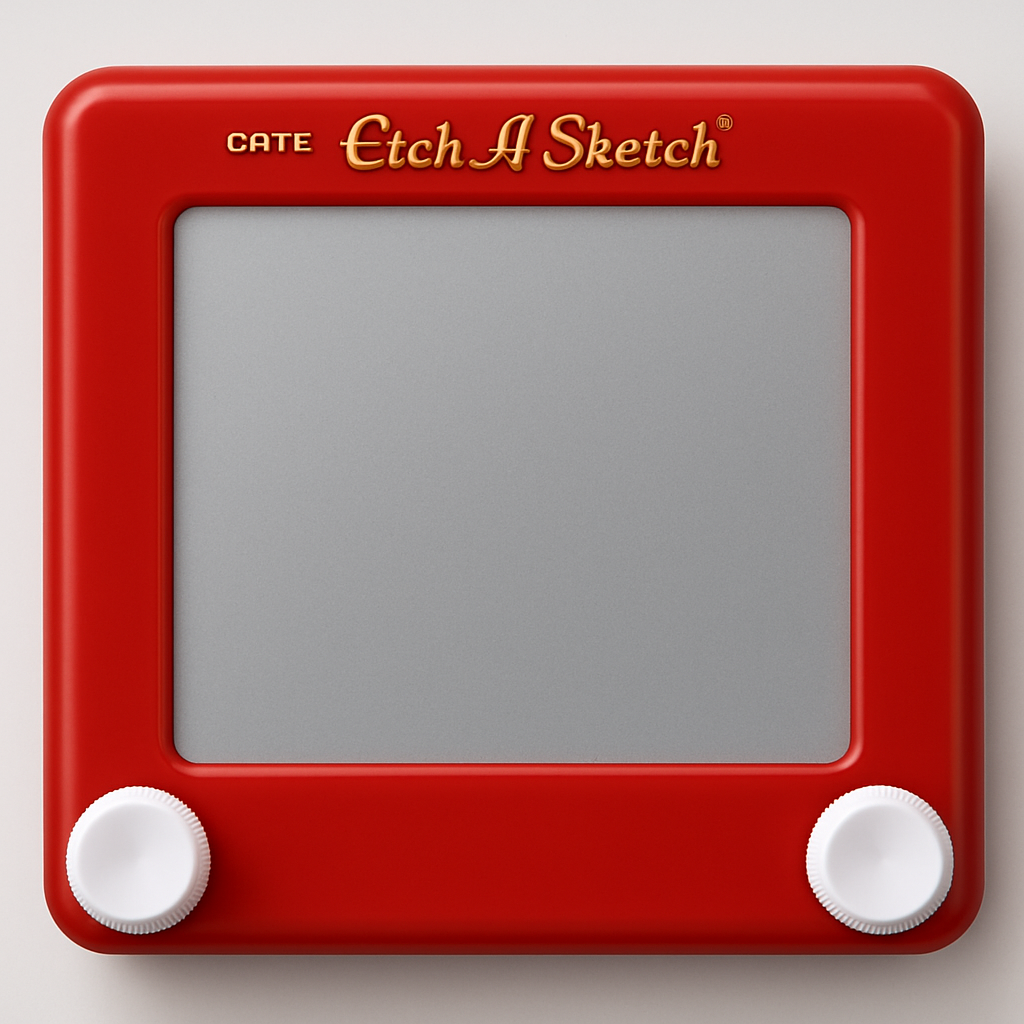
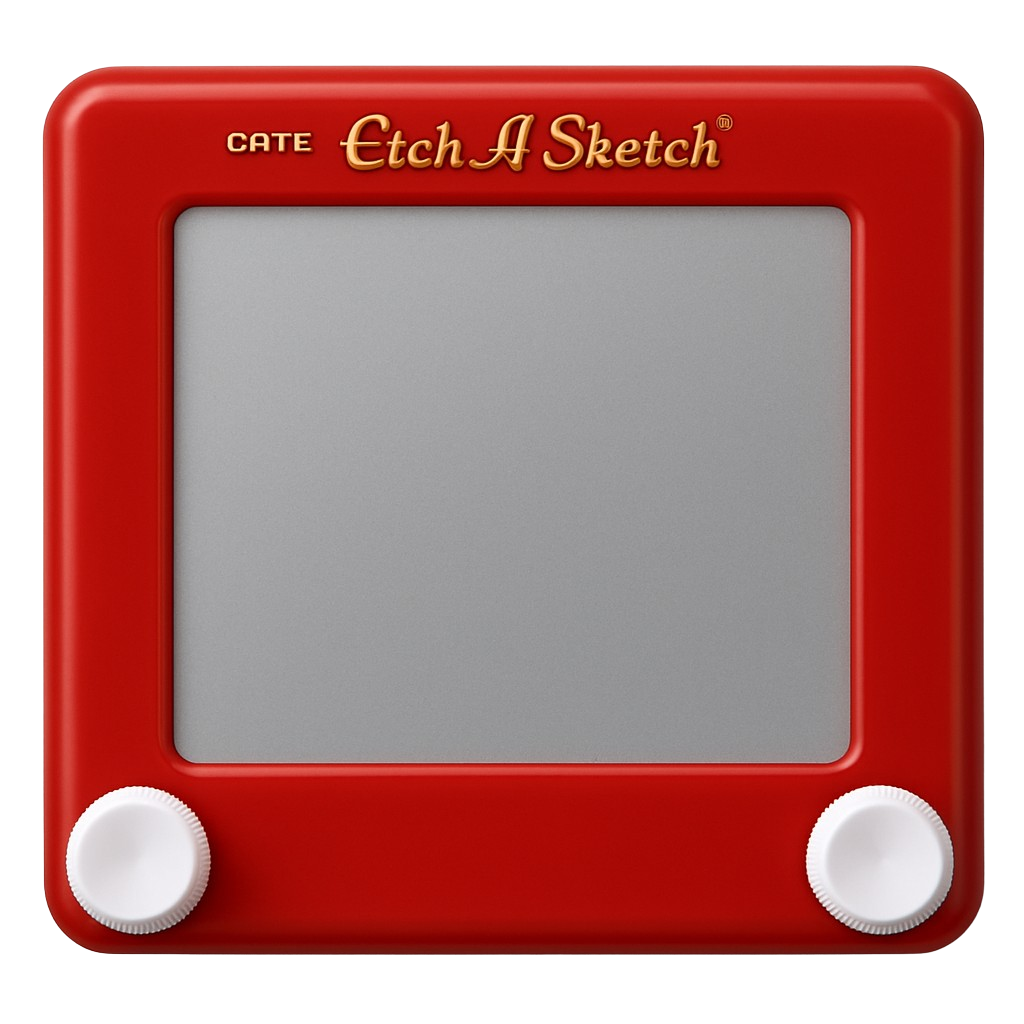
feat: add Etch-a-Sketch features and styles
- Add Etch a Sketch background image
- Add button to reset to black color selection
- Add random color generation on child divs with mouseover
- Implement logic for rainbow, black, and clear buttons
- Style the entire project

Changed region(s): [[0.0, 0.0, 1.0, 1.0]]

diff --git a/main.js b/main.js
@@ -16,7 +16,17 @@ function changeDimensions() {
     } while (userChoice === null || userChoice.trim() === "" || isNaN(number) || number < 1 || number > 100)
     return number
 }
-    
+
+function colorSwitch() {
+
+    let letters = "0123456789ABCDEF"
+    let color = "#"
+    for (let i = 0; i < 6; i++) {
+        color += letters[Math.floor(Math.random() * 16)]
+    } 
+    return color
+}
+       
 function createGrid(userChoice) {
 
 const principalDiv = document.getElementById("container")
@@ -30,16 +40,21 @@ const principalDiv = document.getElementById("container")
     for (let i = 0; i < userChoice * userChoice; i++) {
         const childDivs = document.createElement("div") 
         childDivs.classList.add("child-div")
+        childDivs.dataset.count = 0
         childDivs.style.width = `${squareSize}px`
         childDivs.style.height = `${squareSize}px`   
         principalDiv.appendChild(childDivs)
-    }
+        
+        childDivs.addEventListener("mouseover", () => {
+            let count = parseInt(childDivs.dataset.count) || 0
+            if (count < 10) count ++
+            childDivs.dataset.count = count
 
-    document.querySelectorAll(".child-div").forEach((e) => {
-        e.addEventListener("mouseover", () => {
-        e.style.backgroundColor = "black"
+            const opacity = count / 10
+
+            childDivs.style.backgroundColor = `rgba(0, 0, 0, ${opacity})`
     })
-})
+}
 }
 
 document.getElementById("dimensionsButton").addEventListener("click", () => {
@@ -48,4 +63,50 @@ document.getElementById("dimensionsButton").addEventListener("click", () => {
 
 })
 
-createGrid(16)
+document.getElementById("blackButton").addEventListener("click", () => {
+    document.querySelectorAll(".child-div").forEach((e) => {
+        e.style.backgroundColor = ""
+        e.dataset.count = 0
+
+        e.onmouseover = () => {
+            let count = parseInt(e.dataset.count) || 0
+            if (count < 10) count ++
+            e.dataset.count = count 
+
+            const opacity = count / 10
+            e.style.backgroundColor = `rgba(0, 0, 0, ${opacity})`
+        }
+    })
+}
+)
+
+document.getElementById("rainbowButton").addEventListener("click", ()=>{
+        document.querySelectorAll(".child-div").forEach((e) => {
+            e.style.backgroundColor = ""
+        })
+        document.querySelectorAll(".child-div").forEach((e) => {
+            e.onmouseover = () => {
+                e.style.backgroundColor = colorSwitch()
+            }
+        })
+    })
+
+document.getElementById("resetButton").addEventListener("click", () => {
+    
+    const shakeImage = document.querySelector(".sketch-img")
+    
+    document.querySelectorAll(".child-div").forEach((e) => {
+        e.style.backgroundColor = ""
+        e.dataset.count = 0
+    })
+
+    shakeImage.classList.add("shake")
+
+    shakeImage.addEventListener("animationend", () => {
+        shakeImage.classList.remove("shake")
+    }, {once: true })
+})    
+ 
+createGrid(30)
+
+   

diff --git a/style.css b/style.css
@@ -6,21 +6,32 @@ html, body {
     flex-direction: column;
     justify-content: center;
     align-items: center;
+    background-color: #309898;
+    
 }
 
 .setupContainer {
     display: flex;
+    width: 800px;
     justify-content: space-around;
-    width: 500px;
-    margin-bottom: 30px;
+    gap: 30px;
+    
 }
 
 button {
-    width: 100px;
+    font-family: "Lobster", sans-serif;
+    font-weight: 400;
+    font-style: normal;
+    margin-top: 50px;
+    font-size: 25px;
+    height: 50px;
+    width: 150px;
     padding: 10px;
     border: none;
-    border-radius: 5px;
+    border-radius: 10px;
     cursor: pointer;
+    background-color: #FF9F00;
+    color: white;
     box-shadow: 0 8px 20px rgba(0, 0, 0, 0.6);
 }
 
@@ -39,6 +50,19 @@ button {
 
 #dimensionsButton:hover {
     animation: pulse-on-hover 0.9s infinite ease-in-out;
+}
+
+@keyframes pulseShadow {
+    0%, 100% {
+        box-shadow: 0 0 5px 2px rgba(0, 0, 0, 0.3);
+    }50% {
+        box-shadow: 0 0 20px 8px rgba(0, 0, 0, 0.7);
+    }
+}
+
+#blackButton:hover {
+    transform: scale(1.1);  
+    animation: pulseShadow 1s infinite ease-in-out;
 }
 
 #rainbowButton {
@@ -71,7 +95,7 @@ button {
 #resetButton::after {
     content: "";
     position: absolute;
-    background-color: #fff;
+    background-color: #FF9F00;
     top: 0;
     left: 0;
     height: 100%;
@@ -86,7 +110,7 @@ button {
 }
 
 #resetButton:hover::after {
-    animation: wipeText 1s linear forwards;
+    animation: wipeText 0.5s linear forwards;
 }
 
 @keyframes wipeText {
@@ -99,6 +123,8 @@ button {
 
 .container{
     display: flex;
+    position: relative;
+    z-index: 2;
     flex-wrap: wrap;
     height: 500px;
     width: 500px;
@@ -106,7 +132,36 @@ button {
 }
 
 .child-div {
-    border: 1px solid black;
+    /* border: 1px solid black; */
     box-sizing: border-box;
-    background-color: #183B4E;
+}
+
+#sketch-wrapper {
+    position: relative;
+    width: 1000px;
+    height: 1000px;
+    margin-bottom: 20px;
+    display: flex;
+    align-items: center;
+    justify-content: center;
+    
+}
+
+#etch-frame {
+    position: absolute;
+    top : 5%;
+    width: 94%;
+    height: 95%;
+    z-index: 1;
+    object-fit: cover;
+}
+
+@keyframes shake {
+    0%, 100% {transform: translate(0);}
+    20%, 60% {transform: translateX(-30px);}
+    40%, 80% {transform: translateX(30px);}
+}
+
+.shake {
+    animation: shake 0.5s;
 }

diff --git a/index.html b/index.html
@@ -3,18 +3,23 @@
   <head>
     <meta charset="UTF-8" />
     <meta name="viewport" content="width=device-width, initial-scale=1.0" />
+    <style>
+      @import url("https://fonts.googleapis.com/css2?family=Fascinate+Inline&family=Inter:ital,opsz@0,14..32;1,14..32&family=Lobster&family=Roboto:ital,wght@0,100..900;1,100..900&family=Space+Grotesk:wght@300..700&display=swap");
+    </style>
     <title>Etch-a-Sketch</title>
     <link rel="stylesheet" href="./style.css" />
   </head>
   <body>
     <div class="setupContainer">
       <button id="dimensionsButton">Size</button>
+      <button id="blackButton">Black</button>
       <button id="rainbowButton">Rainbow</button>
       <button id="resetButton">
         <span>Clear</span>
       </button>
     </div>
-    <div class="contentContainer">
+    <div id="sketch-wrapper">
+      <img class="sketch-img" id="etch-frame" src="./images/etch_a_sketch.png" alt="Etch-a-Sketch frame" />
       <div class="container" id="container"></div>
     </div>
     <script src="./main.js"></script>
